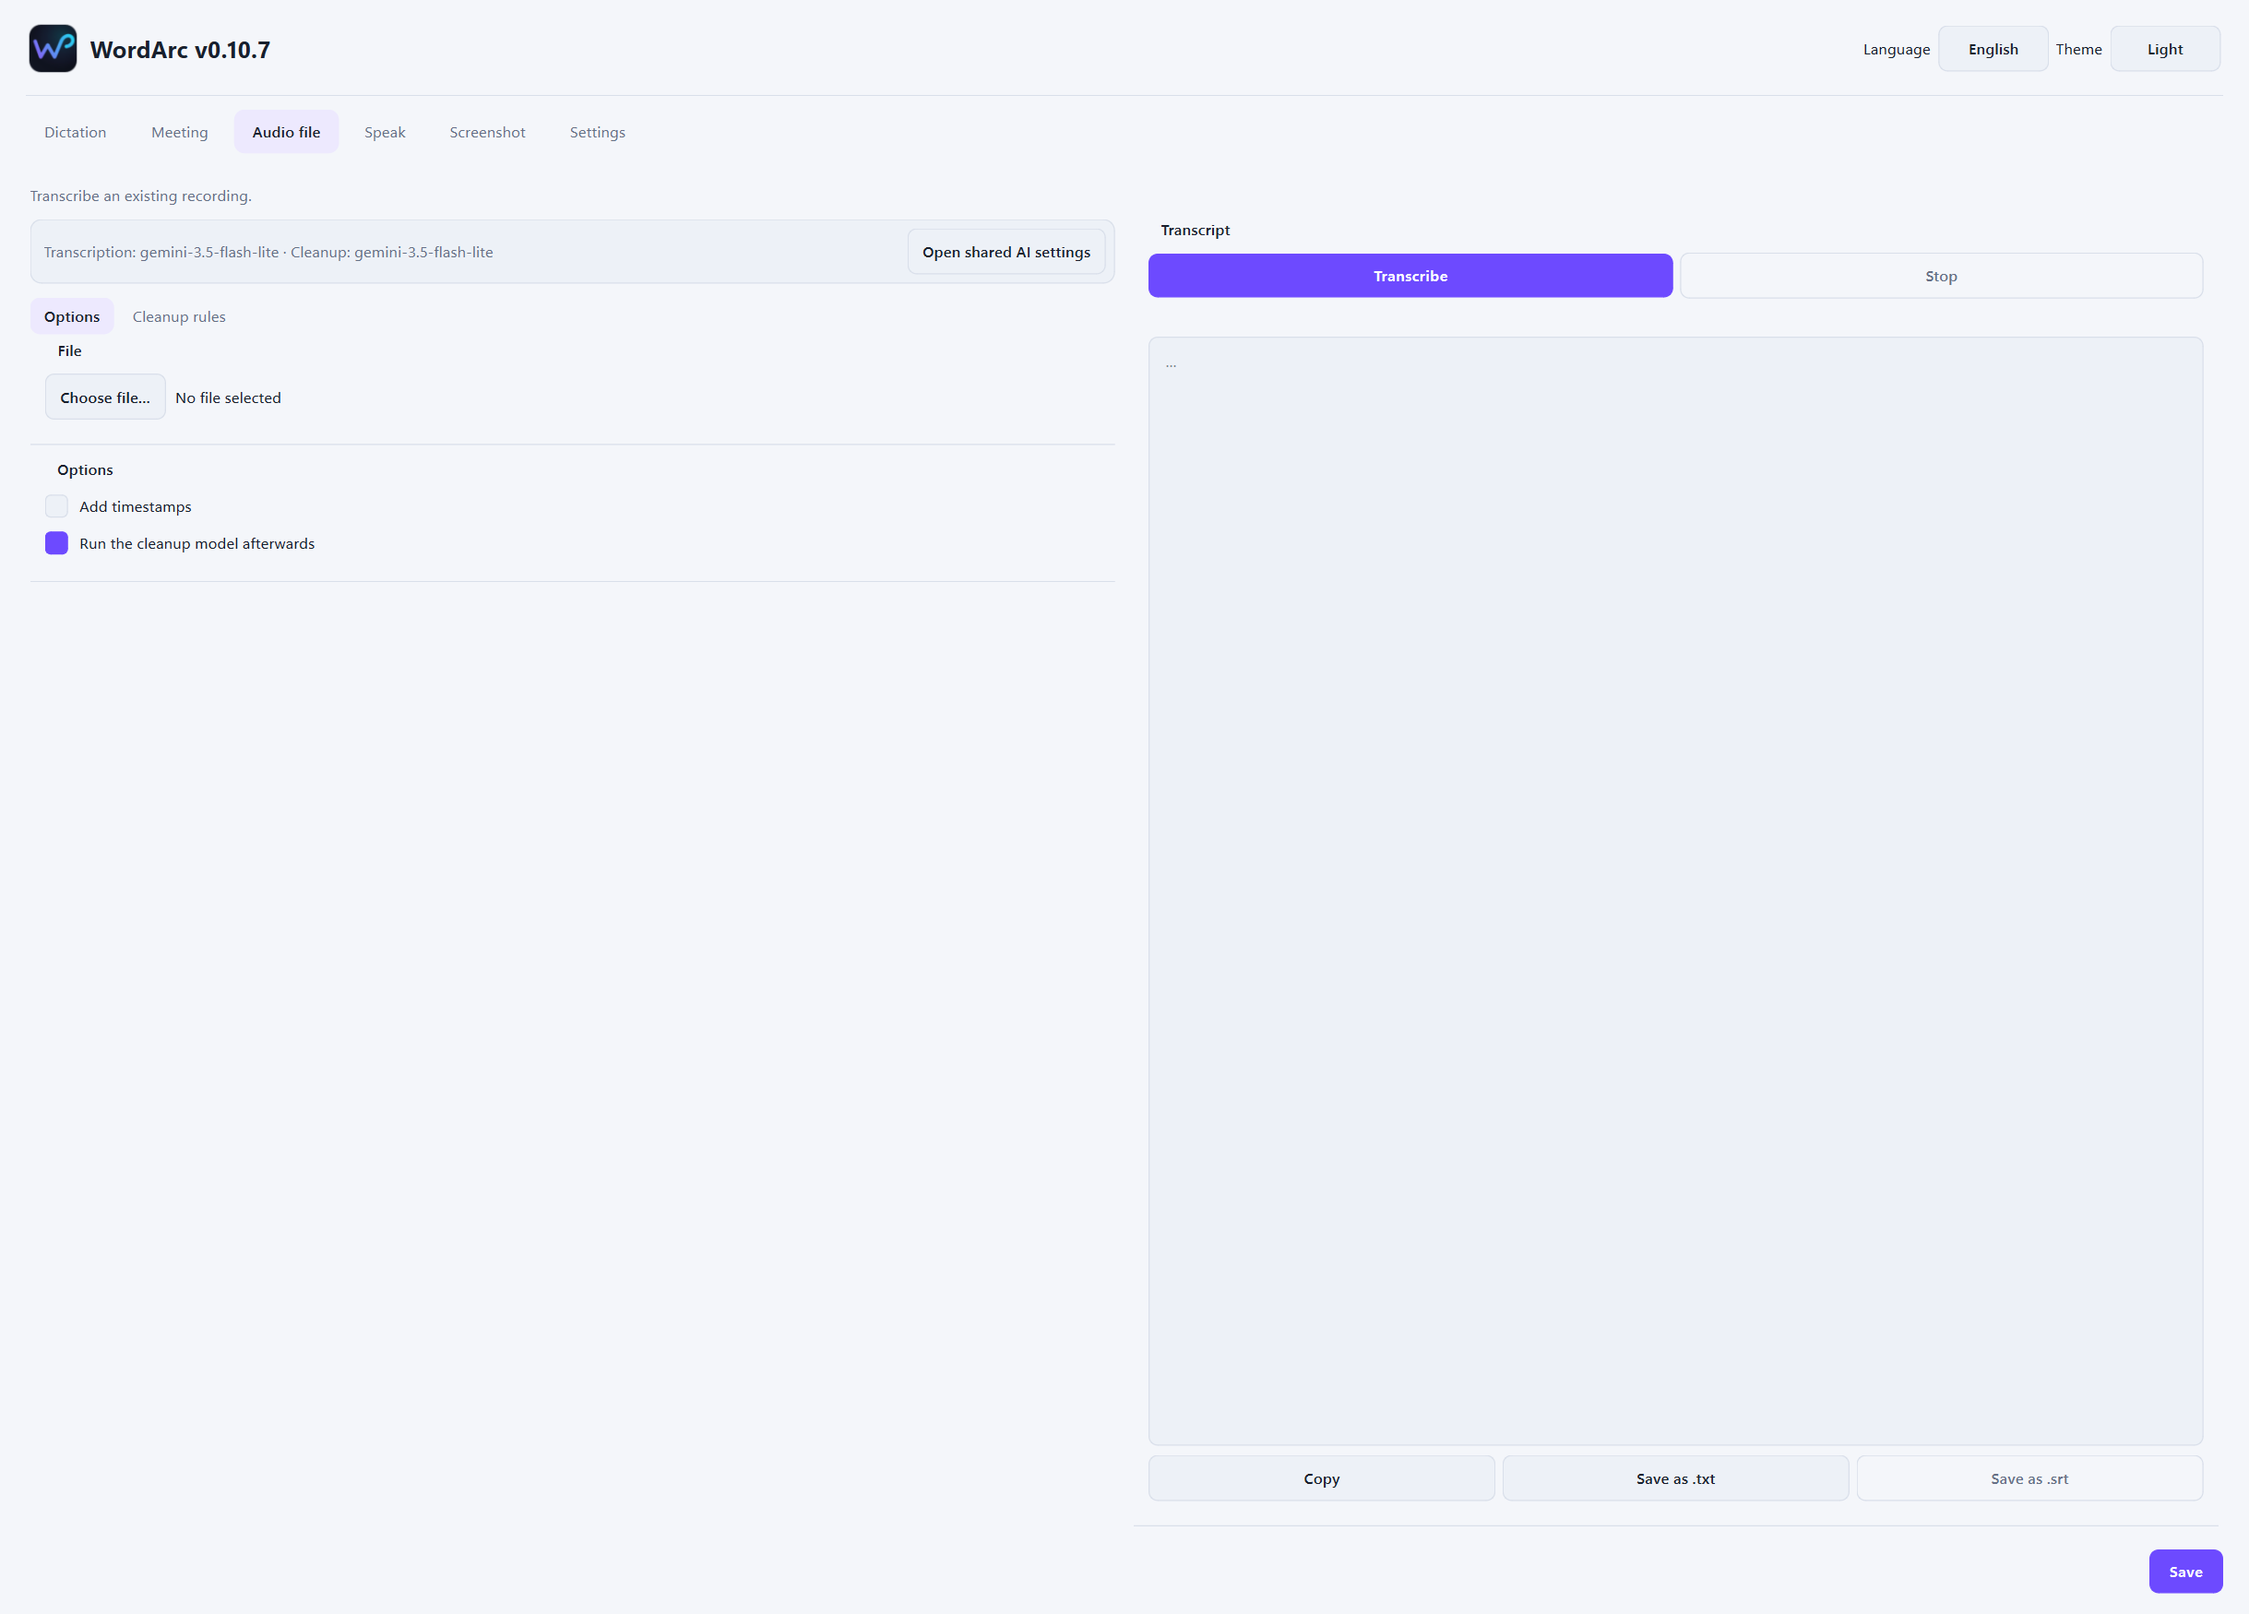
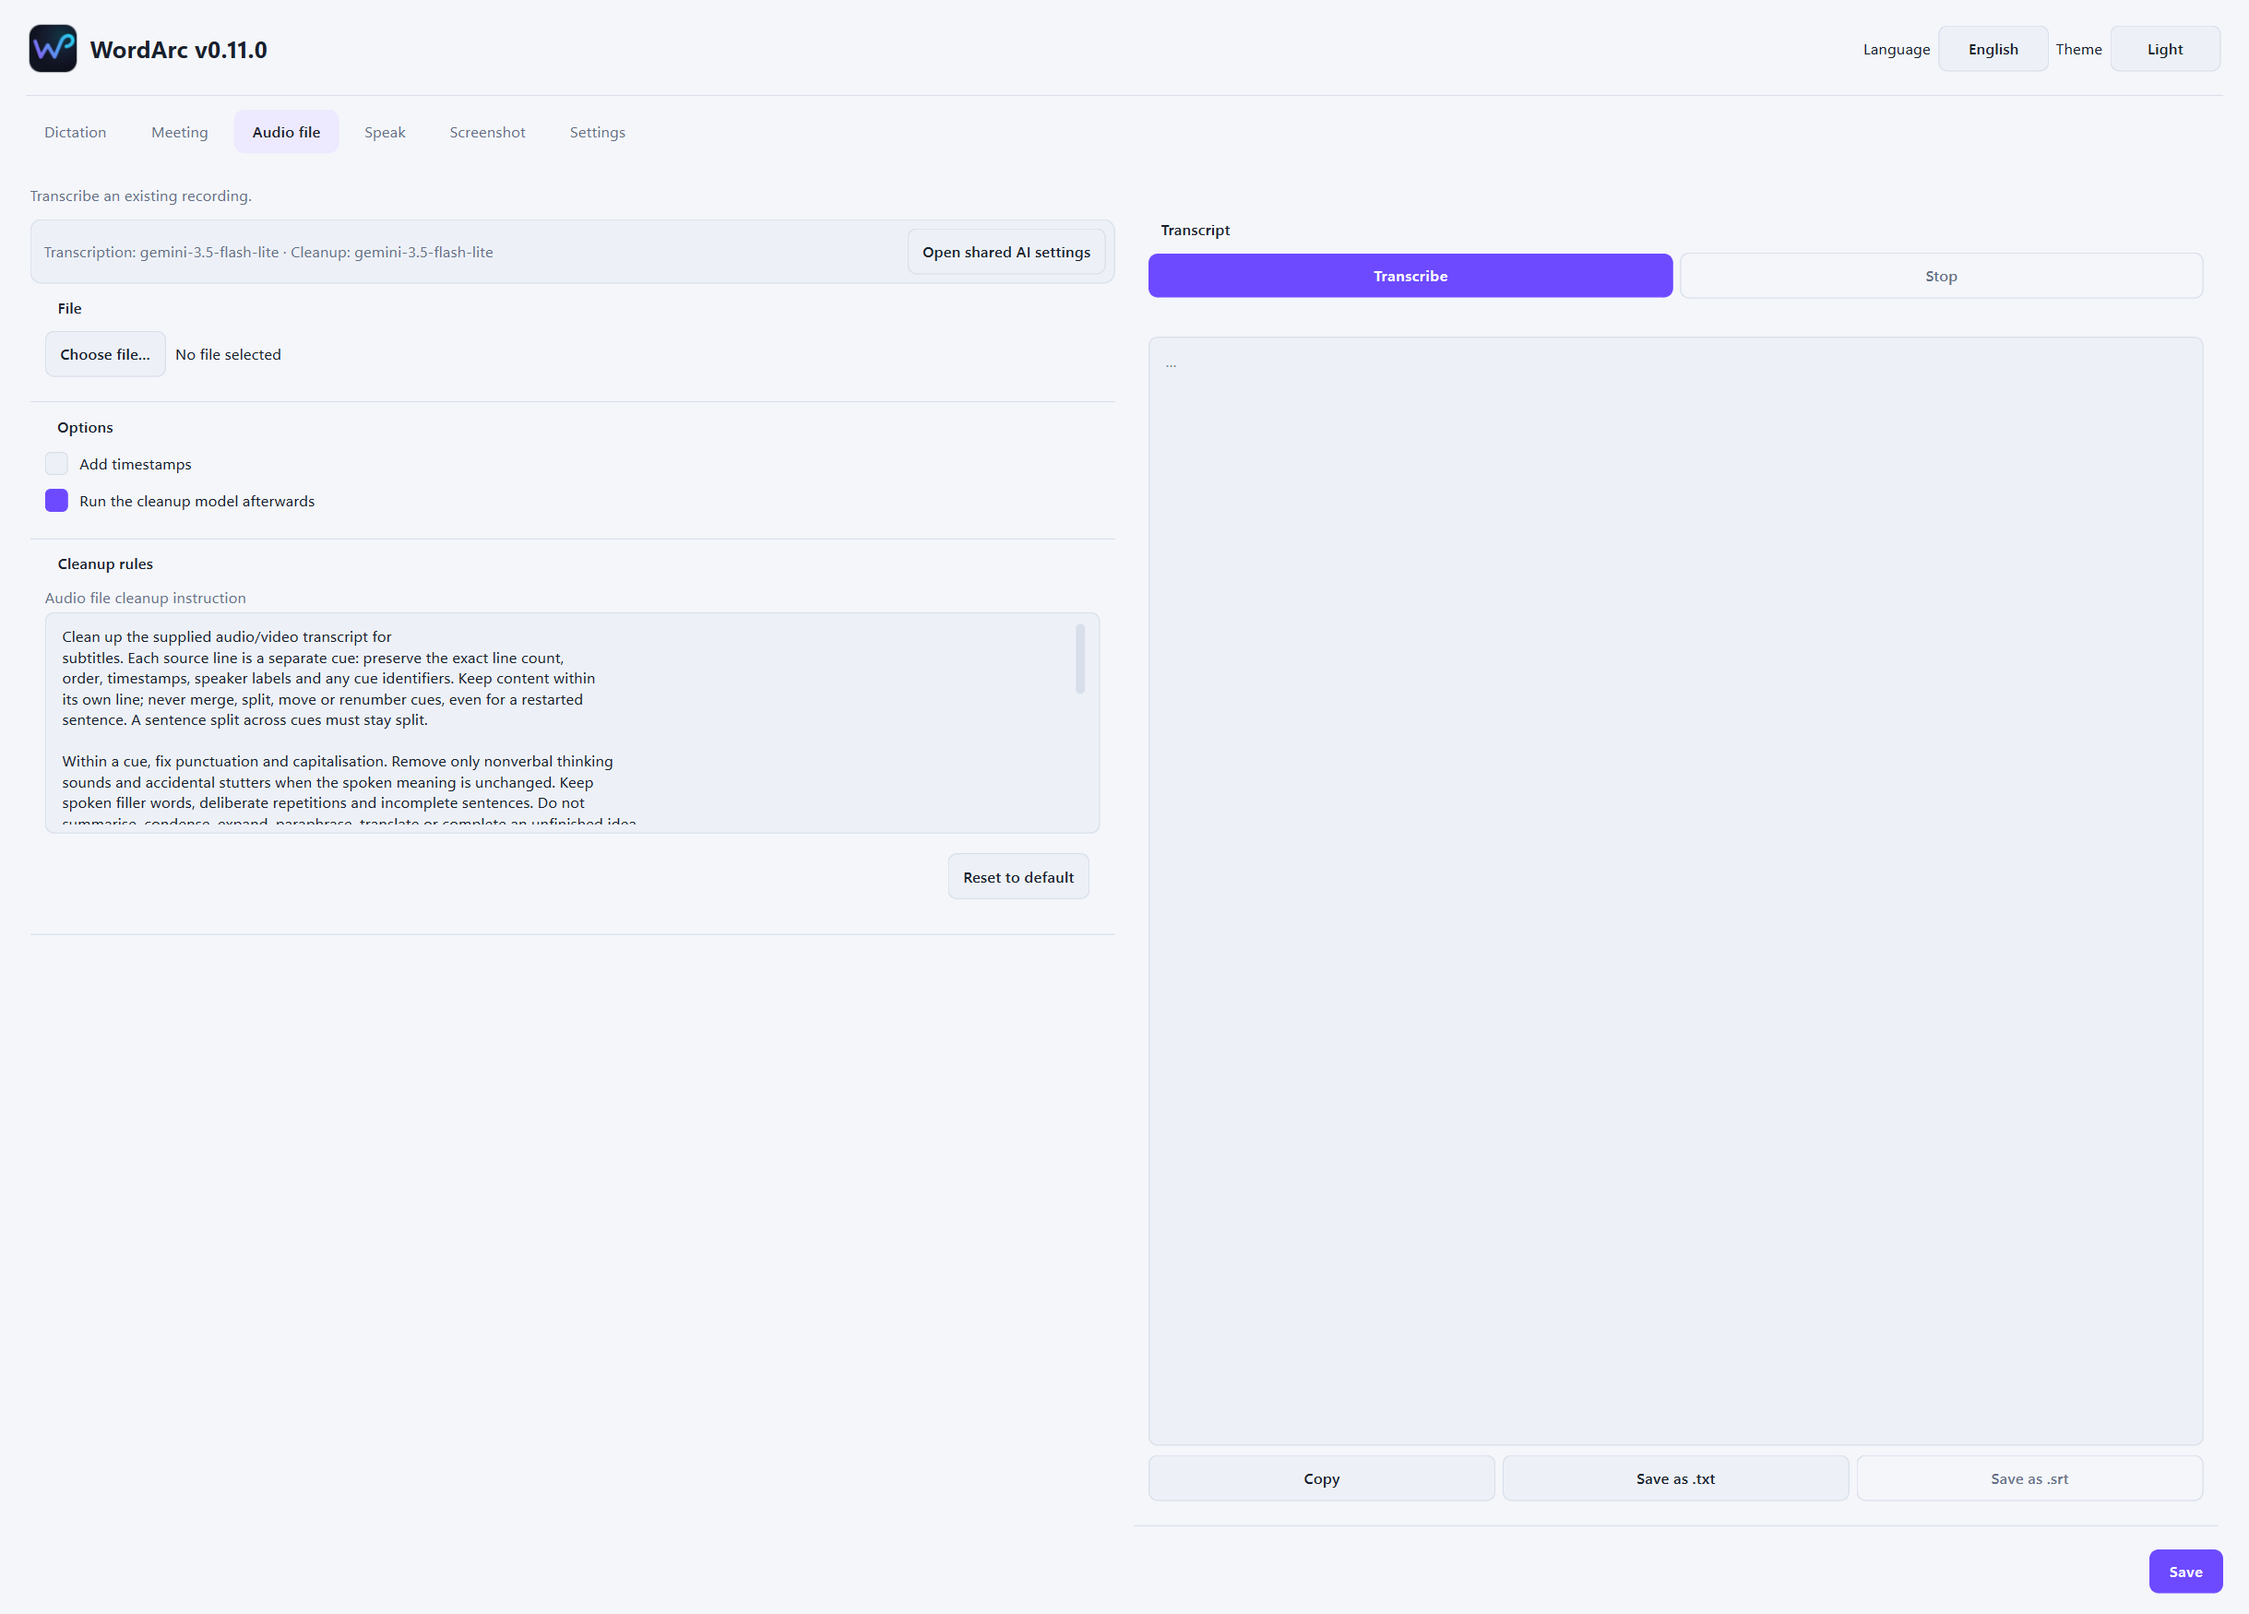
docs: refresh README screenshots for v0.11.0 UI, add API keys card shot

diff --git a/README.tr.md b/README.tr.md
@@ -158,6 +158,8 @@ Solda dört kategori, her birinin kendi paneli.
 
 **API anahtarları** — Windows Credential Manager'da `WordArc/GeminiApiKey` olarak tutulur, `config.json` içine asla yazılmaz.
 
+![API anahtarları](./docs/screenshots/10-api-keys.png)
+
 **Uygulama** — tema, dil, başlangıç davranışı, tepsi davranışı.
 
 `Kaydet` ayarları yazar. Çalışan bir kaydı etkileyen değişiklikler bir sonraki kayıtta geçerli olur, kaydın ortasında asla.

diff --git a/README.md b/README.md
@@ -158,6 +158,8 @@ Four categories down the left, each with its own panel.
 
 **API keys** — stored in Windows Credential Manager under `WordArc/GeminiApiKey`, never in `config.json`.
 
+![API keys](./docs/screenshots/10-api-keys.png)
+
 **Application** — theme, language, startup behaviour, tray behaviour.
 
 `Save` writes the settings. Changes that affect a running recording take effect on the next one, never mid-recording.
